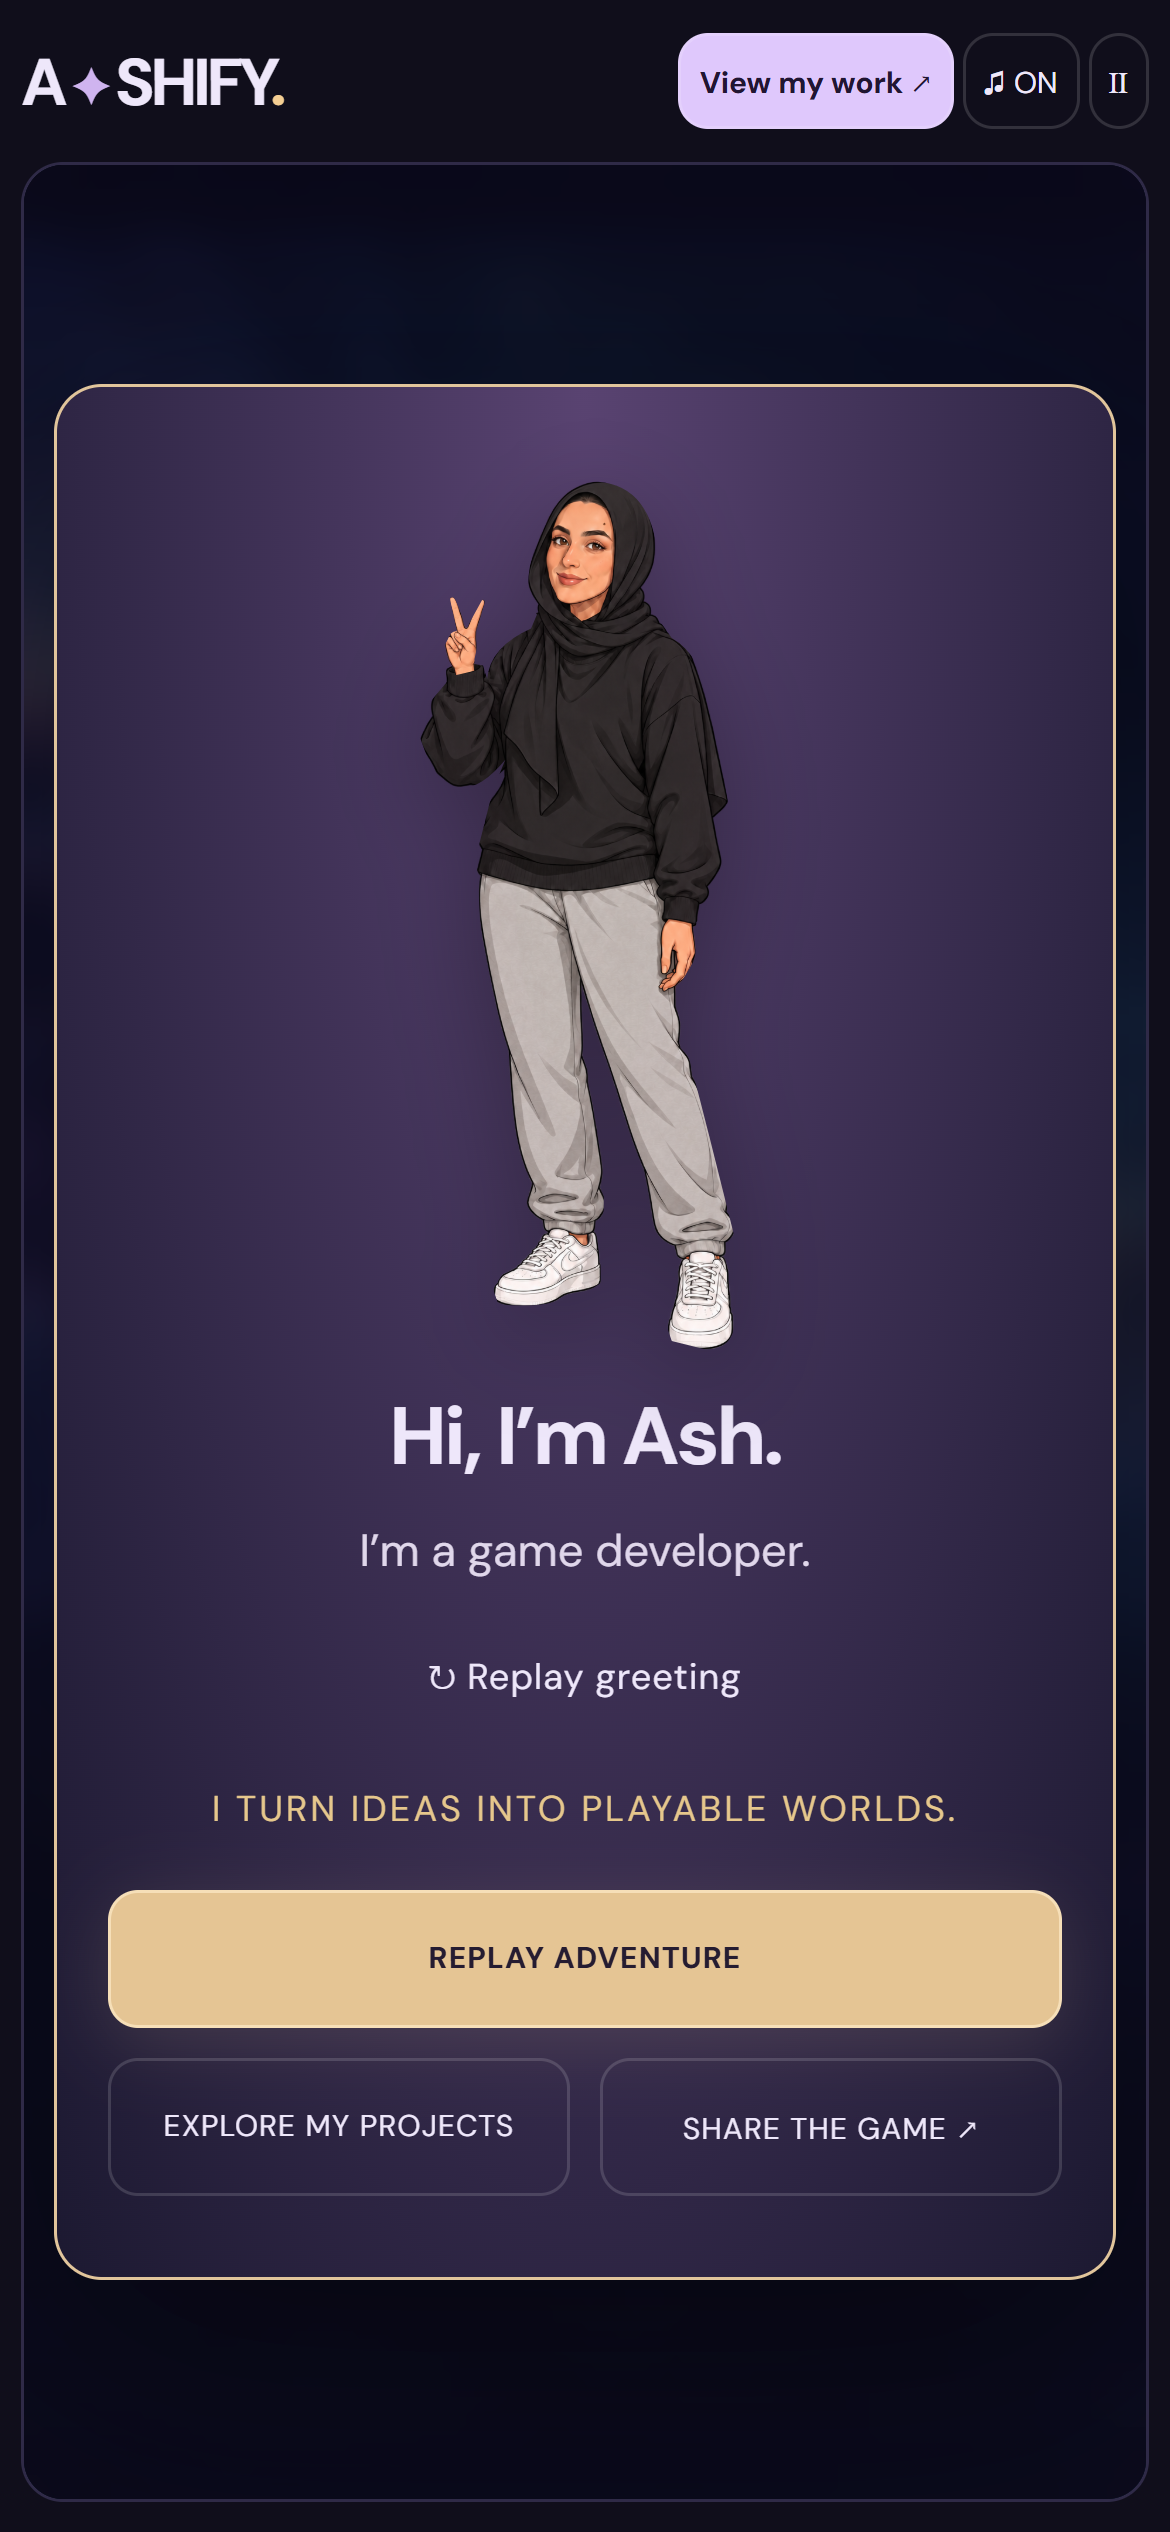
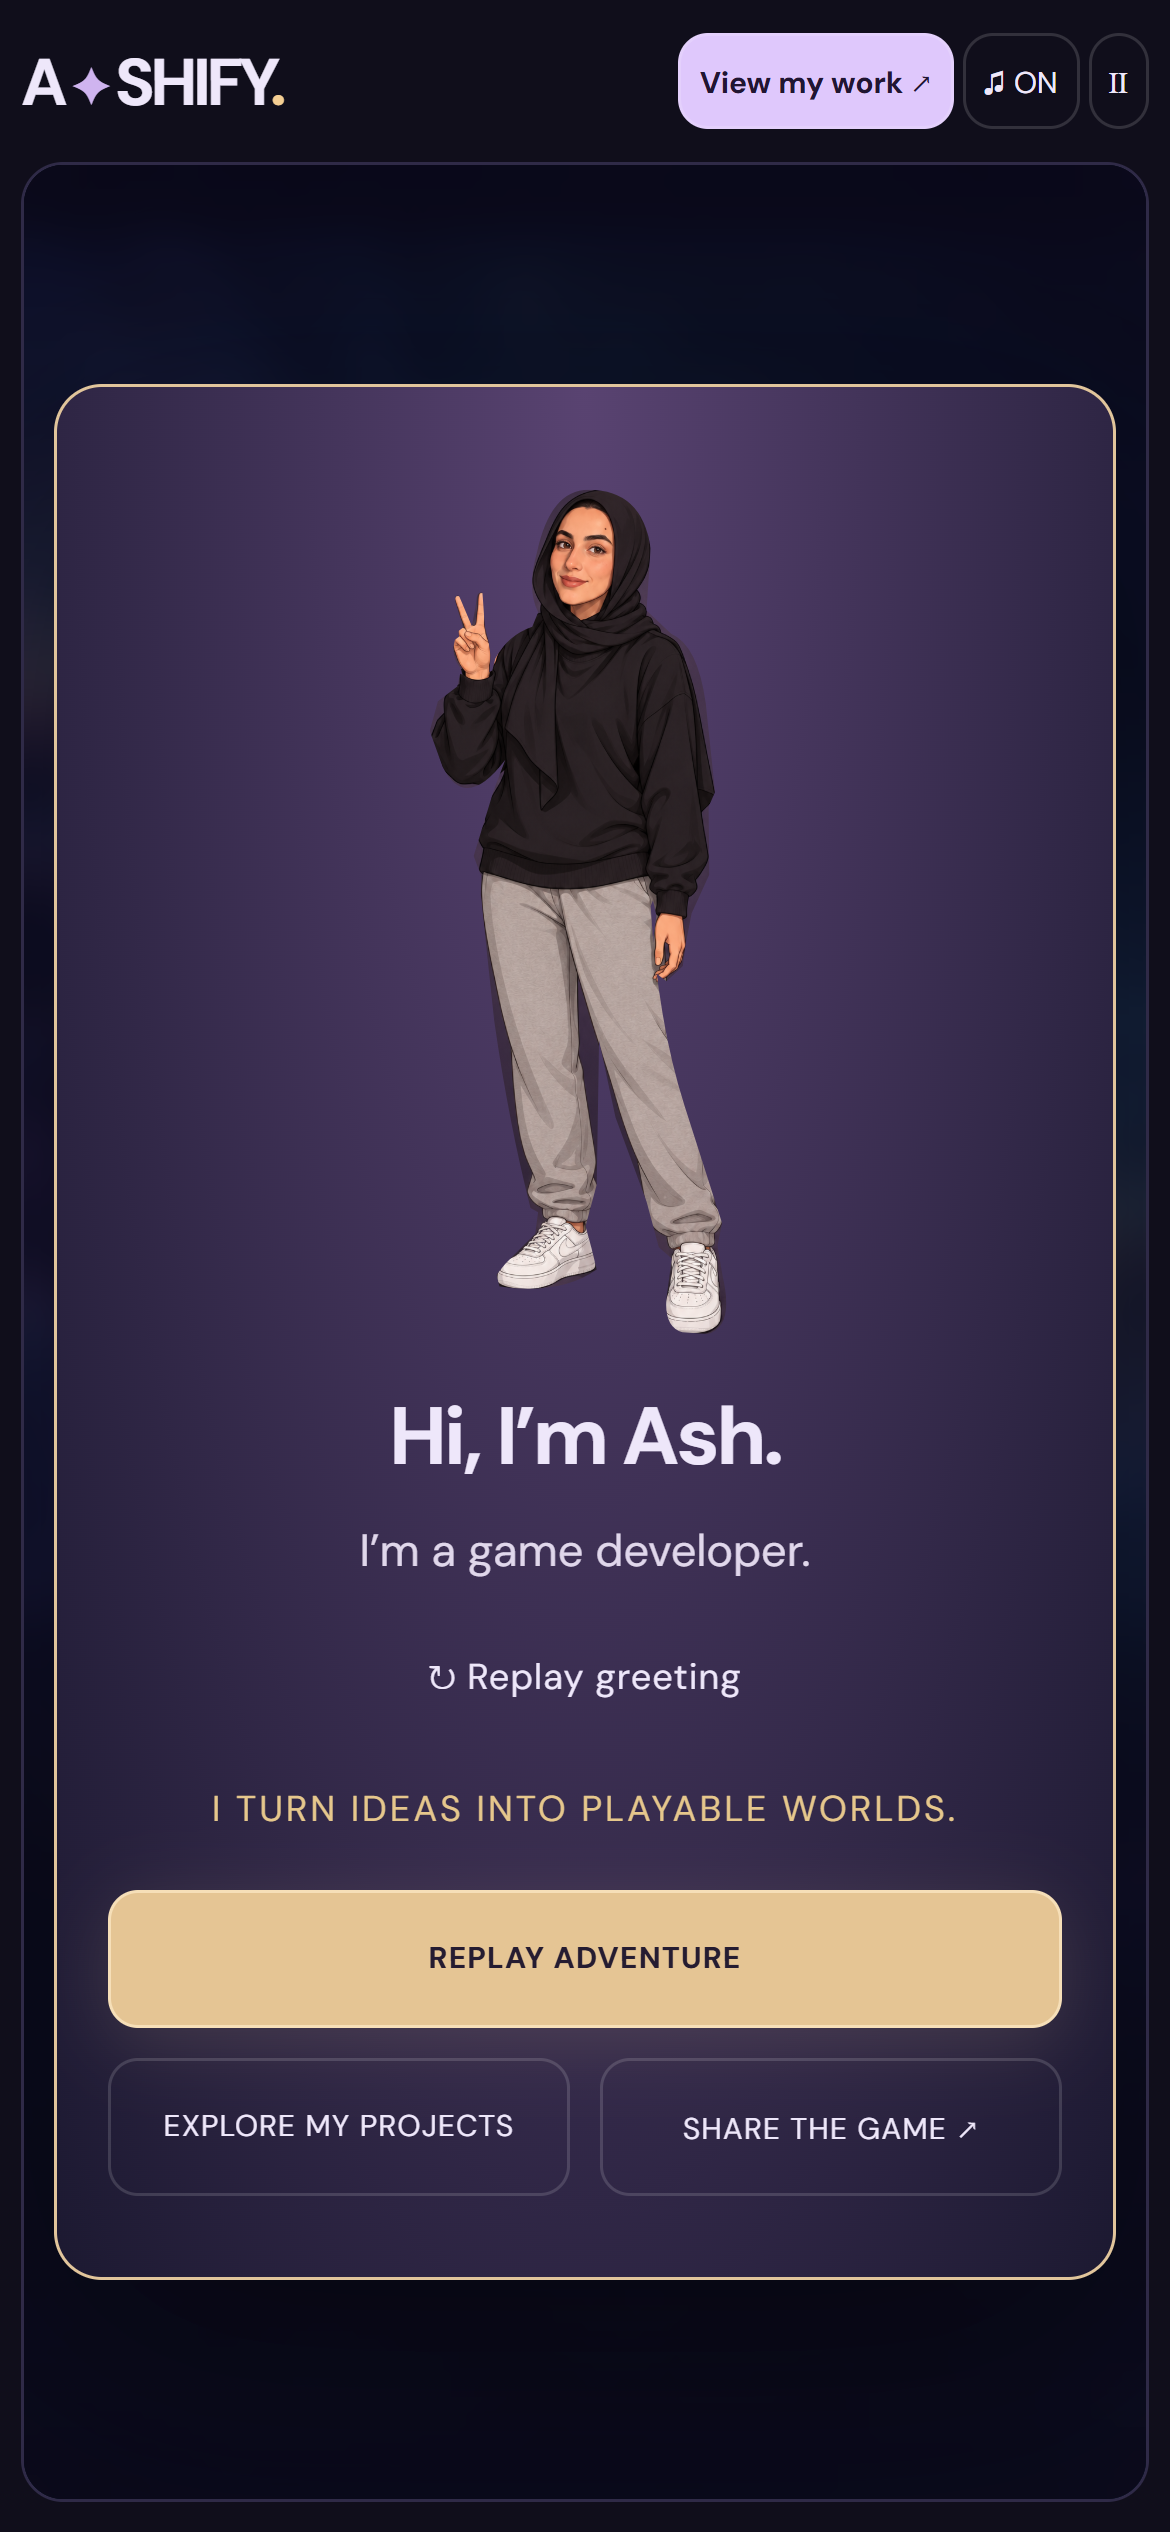
ss

Changed region(s): [[0.4, 0.2496, 0.6462, 0.5304], [0.3385, 0.1872, 0.5538, 0.312], [0.5231, 0.2808, 0.5538, 0.312]]

diff --git a/src/GreetingRig.tsx b/src/GreetingRig.tsx
@@ -1,17 +1,20 @@
 import { assetUrl } from './data/assets';
 export function GreetingRig({ winking }: { winking: boolean }) {
- const base=assetUrl('assets/character/ash-approved-rig.png');
+ const base=assetUrl('assets/character/ash-exact-approved.png');
+ const victory=assetUrl('assets/character/ash-exact-victory.png');
  return <svg className="greeting-rig" viewBox="0 0 1024 1536" aria-hidden="true">
  <defs>
- <clipPath id="ash-body-cut"><path d="M275 342Q300 328 338 337L345 360Q350 305 420 274L430 250Q401 214 428 128Q449 24 518 23Q619 20 635 139L625 240 660 290Q713 320 730 416L756 569 750 738 702 775 700 838 668 891 681 972 724 1140 768 1316 763 1384Q788 1498 725 1506L660 1490 650 1460 657 1355 631 1309 614 1243 564 1110 545 1010 544 1266 538 1317 539 1391Q472 1439 364 1427L355 1401 376 1368 415 1310 403 1270 371 1120 340 960 330 710 326 664 355 549 376 498Q302 587 249 511L230 459 241 407 275 367Z"/></clipPath>
- <clipPath id="ash-wave-cut"><path d="M175 261 166 241 142 220 104 146Q98 130 108 130L148 177 124 104Q117 88 128 88L170 156 142 88Q137 72 148 73L190 150 181 86Q180 70 190 73L214 149 222 176 239 138Q249 124 256 131L245 171 231 207 219 241 221 251Z"/></clipPath>
- <clipPath id="ash-v-cut"><path d="M850 250 851 222 844 191 846 161 828 91Q821 74 832 77L869 144 895 83Q902 64 911 74L894 153Q912 155 916 174L925 190 917 221 897 261Z"/></clipPath>
- <clipPath id="ash-eye-cut"><ellipse cx="530" cy="134" rx="29" ry="16"/></clipPath>
+ <clipPath id="ash-body-cut"><path d="M299 351Q326 365 354 345L359 325Q381 285 422 271L432 246Q412 206 430 144Q453 37 518 37Q610 37 624 137L617 243 659 283Q704 302 718 401L734 553 723 578 724 694 694 760 684 811 679 850 651 876 629 859 629 800 634 764 628 738 624 748Q636 945 682 1089L746 1289 738 1327 747 1380Q767 1466 721 1478L678 1475Q647 1466 651 1418L660 1349 638 1330 617 1252 564 1108 536 977 532 1223 513 1294 523 1331 532 1368Q470 1412 366 1397L361 1377 376 1358 427 1307 432 1270 419 1263Q382 1118 357 943L334 727 335 697 322 662 356 551 376 498Q308 588 269 510L247 449 261 398 294 373Z"/></clipPath>
+ <clipPath id="ash-wave-cut"><path d="M304 361 300 341 284 319 265 277Q258 262 267 261L294 299 280 245Q276 229 284 230L310 286 294 233Q289 215 299 218L326 278 320 232Q318 217 327 219L341 278 347 291 356 264Q362 253 370 257L365 287 366 313 354 344 349 363Z"/></clipPath>
+ <clipPath id="ash-v-cut"><path d="M305 362 300 342Q288 329 287 307L290 293 297 288 296 278 304 272 292 233Q287 216 297 218L319 270 327 226Q327 210 337 213L341 270 347 293 351 320 348 361Z"/></clipPath>
+ <clipPath id="ash-cuff-cut"><path d="M299 354Q327 368 354 351L357 382Q329 412 302 388Z"/></clipPath>
+ <clipPath id="ash-eye-cut"><ellipse cx="534" cy="138" rx="26" ry="13"/></clipPath>
  </defs>
  <image className="rig-body" href={base} width="1024" height="1536" clipPath="url(#ash-body-cut)"/>
- <g className="rig-wave"><g transform="translate(182 171) scale(.7)"><image href={base} width="1024" height="1536" clipPath="url(#ash-wave-cut)"/></g></g>
- {/* Mirror only the victory hand around its wrist; keep the sleeve and shoulder fixed. */}
- <g className="rig-v" transform="translate(919 171) scale(-.7 .7)"><image href={base} width="1024" height="1536" clipPath="url(#ash-v-cut)"/></g>
- <image className={`ash-wink ${winking?'active':''}`} href={assetUrl('assets/character/ash-approved-rig-wink.png')} width="1024" height="1536" clipPath="url(#ash-eye-cut)"/>
+ <g className="rig-wave"><image href={base} width="1024" height="1536" clipPath="url(#ash-wave-cut)"/></g>
+ <g className="rig-v"><image href={victory} width="1024" height="1536" clipPath="url(#ash-v-cut)"/></g>
+ <image href={base} width="1024" height="1536" clipPath="url(#ash-cuff-cut)"/>
+ <image className={`ash-wink ${winking?'active':''}`} href={victory} width="1024" height="1536" clipPath="url(#ash-eye-cut)"/>
  </svg>;
 }
+

diff --git a/src/styles/global.css b/src/styles/global.css
@@ -1890,3 +1890,11 @@ h1 {
 @keyframes rig-wave { 0%,100% { transform:rotate(-5deg); } 50% { transform:rotate(5deg); } }
 @media(max-height:740px) { .final-panel .fullbody-portrait {width:160px;height:240px;margin-left:0;} }
 @media(prefers-reduced-motion:reduce) {.is-waving .rig-wave {animation:none;} }
+/* Pin rotation to the wrist in SVG coordinates, with the sleeve cuff in front. */
+.rig-wave { transform-box: view-box; transform-origin: 307px 350px; }
+@keyframes rig-wave { 0%,100% { transform:rotate(-9deg); } 50% { transform:rotate(9deg); } }
+.final-panel .fullbody-portrait { filter: none; }
+/* Approved original pixels; no detached/re-sized replacement wave hand. */
+.rig-wave { transform-origin: 328px 359px; transform-box: view-box; }
+@keyframes rig-wave { 0%,100% {transform:rotate(-3deg);} 50% {transform:rotate(3deg);} }
+.fullbody-portrait .wink-stars {left:52.1%;top:9%;}

diff --git a/design/exact-approved-character.md b/design/exact-approved-character.md
@@ -1,0 +1,4 @@
+# Exact approved character
+Base: ash-exact-approved.png copied unchanged from user-approved exec-62dc6f64-e968-4ddd-9c6f-6682a3a59525.png.
+Only the original hand is articulated at its existing wrist. Original face, hijab, shoulder, clothes and proportions remain in the fixed base layer. A cuff overlay maintains the seam.
+Built-in imagegen produced ash-exact-victory.png with prompt: change only raised right hand to anatomically correct V sign and viewer-right eye to wink; preserve all other pixels and registration. Only these small regions are displayed using SVG clips.
